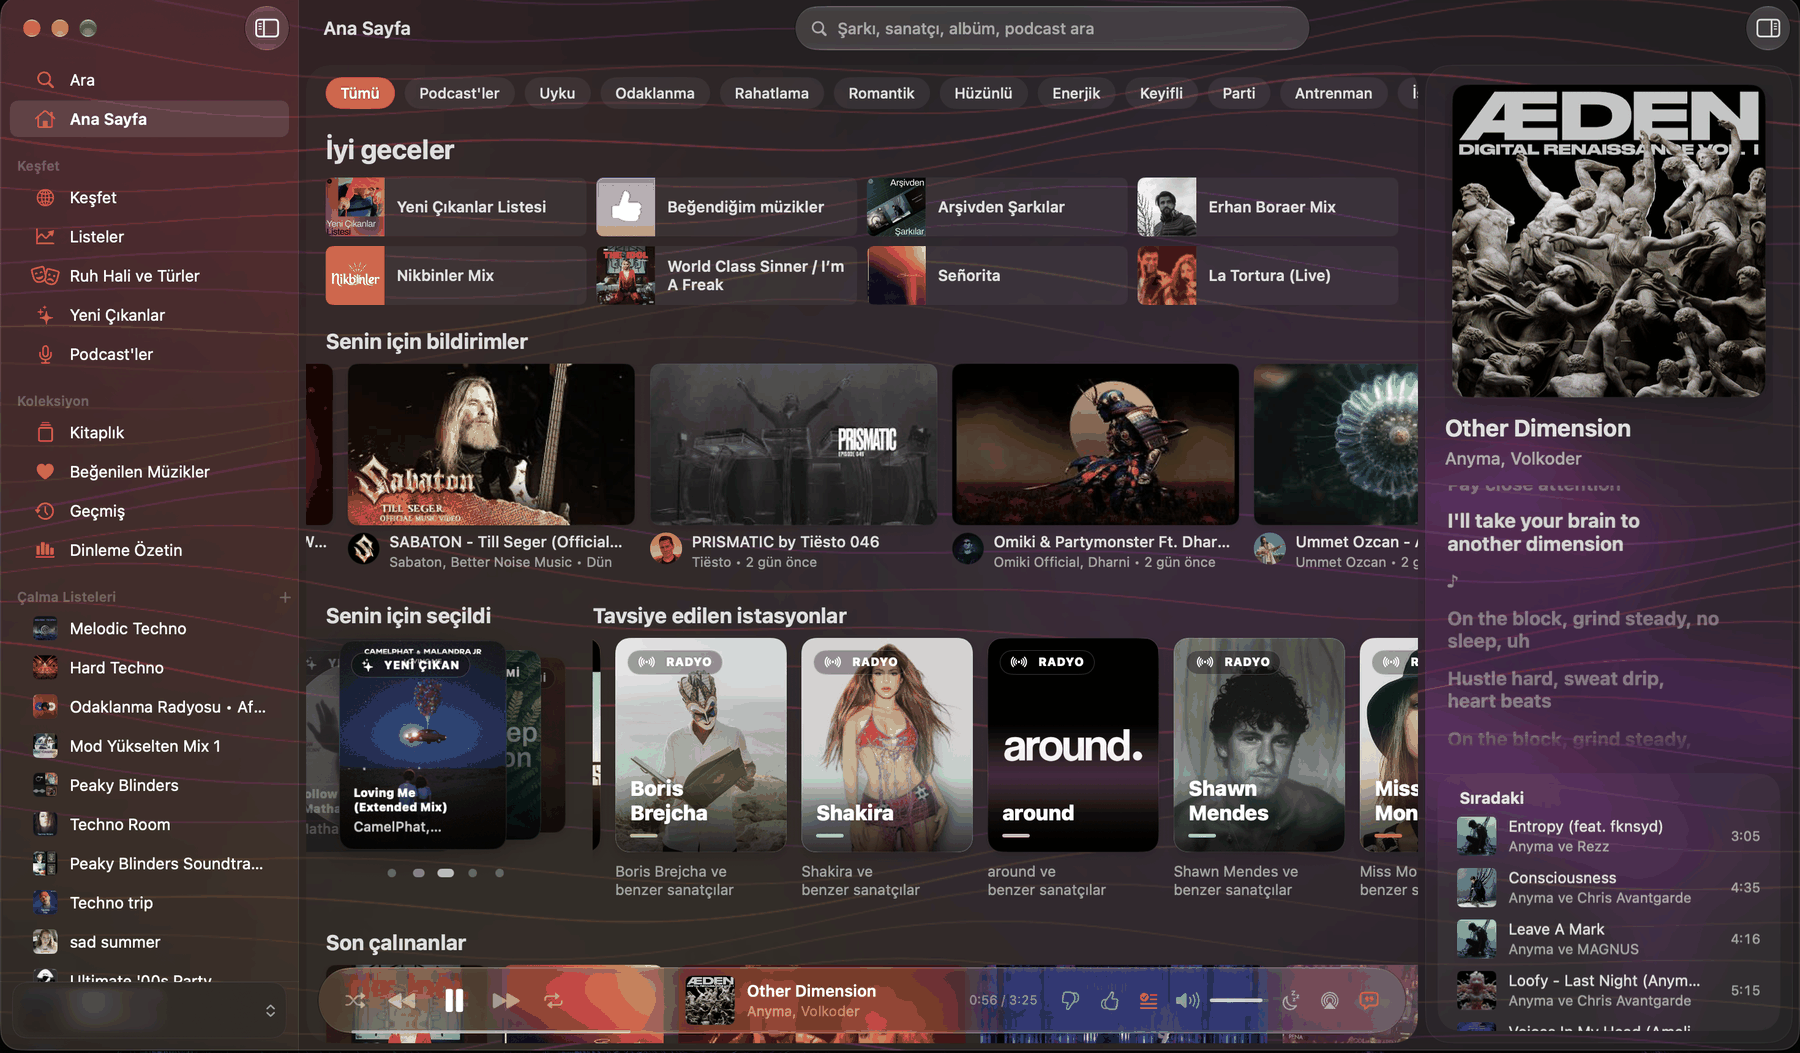
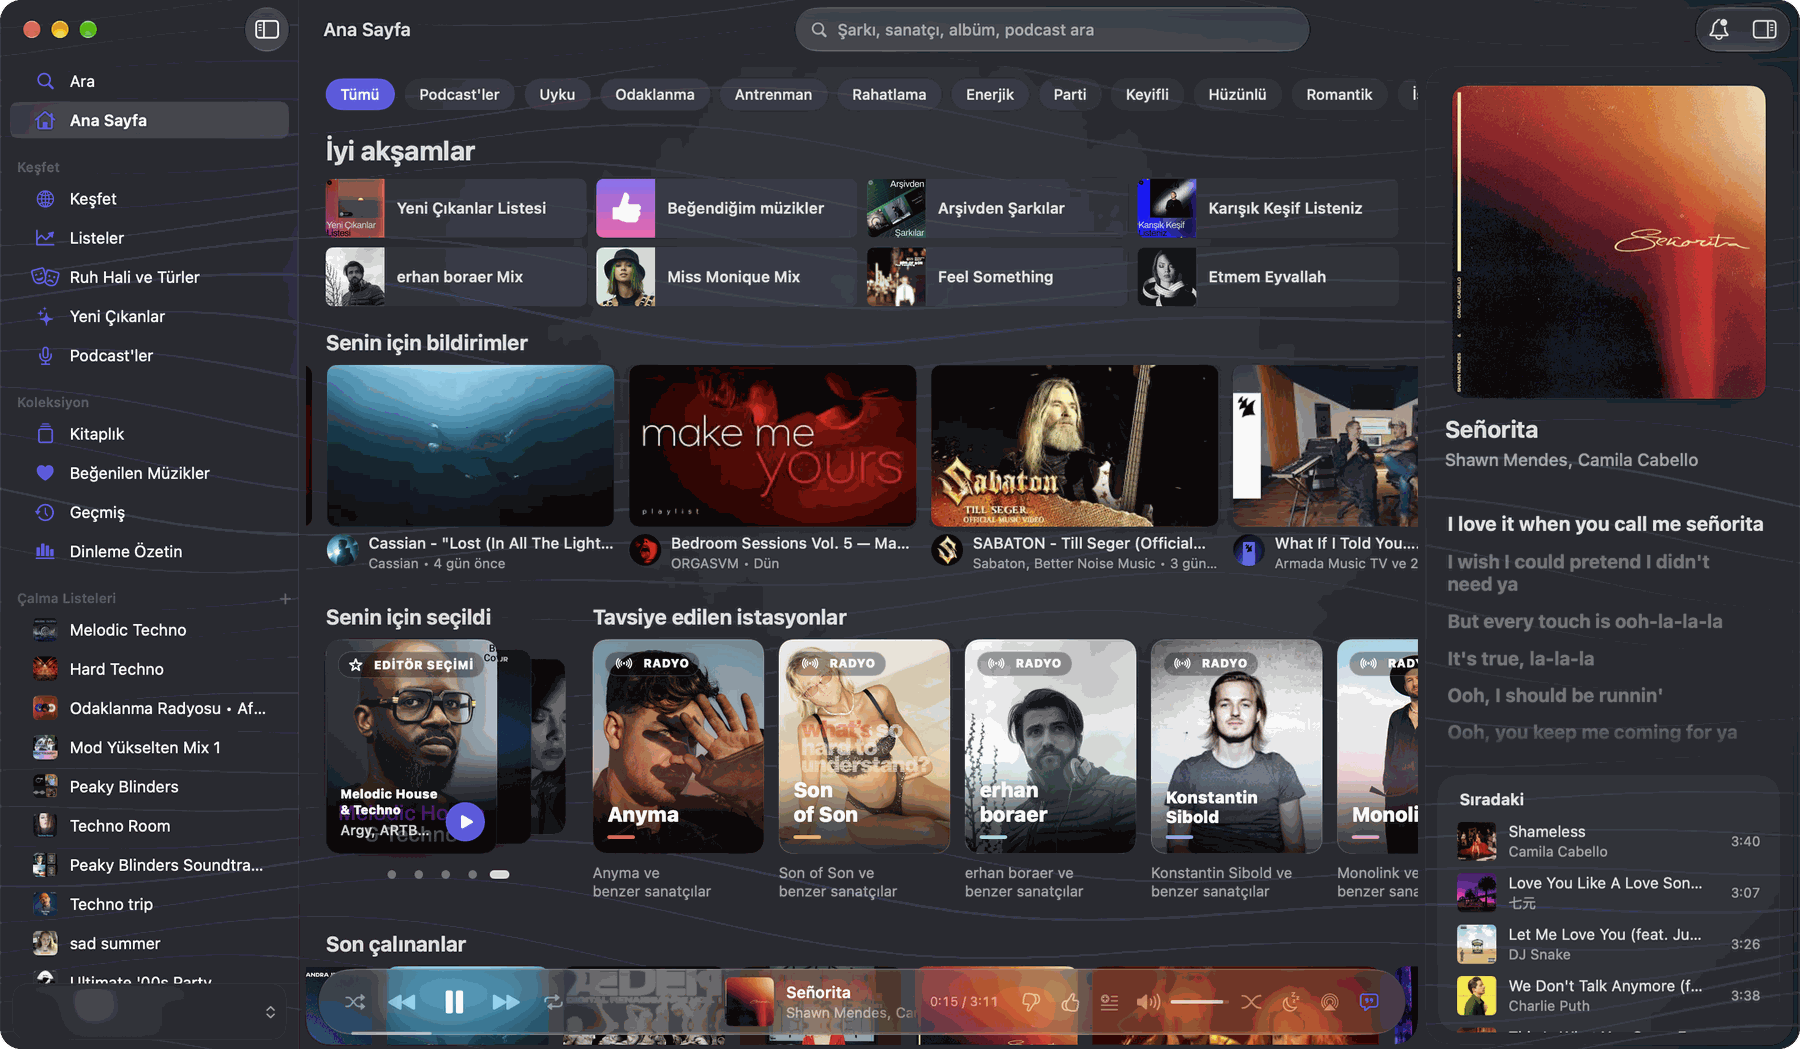
README: what makes the app its own, new screenshots

diff --git a/README.tr.md b/README.tr.md
@@ -5,7 +5,7 @@
 <h1 align="center">YT Music for macOS</h1>
 
 <p align="center">
-  Mac için SwiftUI ile yazılmış yerel bir YouTube Music istemcisi.
+  <b>YouTube Music'in Mac'e özel, yerel uygulaması — kendi ana sayfası, kendi oynatıcısı ve kendi tasarımıyla.</b>
 </p>
 
 <p align="center">
@@ -23,27 +23,85 @@
   <img src="docs/screenshots/home.png" alt="Ana sayfa">
 </p>
 
-> **Resmî değildir.** YouTube veya Google ile bağlantısı yoktur. “YouTube” ve “YouTube Music”, Google LLC'nin ticari markalarıdır. Kendi YouTube Music hesabınız gerekir; en iyi ses kalitesi için Premium gerekir.
+<p align="center">
+  <a href="#kurulum"><b>Kurulum</b></a> · <a href="#özellikler">Özellikler</a> · <a href="#gizlilik">Gizlilik</a> · <a href="CHANGELOG.md">Değişiklikler</a>
+</p>
 
-## Neler ekliyor
+YT Music, Mac için SwiftUI ile sıfırdan yazılmış bir YouTube Music istemcisi. Kendi hesabınla giriş yapar, kendi kitaplığını ve YouTube Music'in bütün kataloğunu dinlersin; ama karşına çıkan şey bir pencereye konmuş YouTube Music web sayfası değildir. Ana sayfada ne olacağına, bir radyonun sırada ne çalacağına, senin için neyin yeni olduğuna uygulama kendisi karar verir — bu Mac'te dinlediklerine göre — ve hepsini Apple'ın kendi ses oynatıcısıyla çalar.
 
-YouTube Music'in sunduklarına ek olarak uygulamanın kendine ait birkaç özelliği var:
+> **Resmî değildir.** YouTube veya Google ile bağlantısı yoktur. “YouTube” ve “YouTube Music”, Google LLC'nin ticari markalarıdır. Kendi YouTube Music hesabın gerekir; en iyi ses kalitesi için Premium gerekir.
 
-- **Ana sayfa:** kısayollar, sanatçı istasyonları, hızlı seçimler ve dinlediklerine göre değişen satırlar.
-- **Yeni çıkanlar:** takip ettiğin ve dinlediğin sanatçıların son yayınları.
-- **Bildirimler:** takip ettiğin müzik kanallarının son yüklemeleri, Shorts olmadan.
-- **Radyo düzenleme (isteğe bağlı):** resmî şarkı sürümlerini öne alır, her şarkıyı bir kez çalar; DJ setlerine dokunmaz.
-- **Mac'inde dinleme geçmişi:** yukarıdaki öneriler ve dinleme özetin (hafta, ay, yıl) için kullanılır; kapatabilir veya silebilirsin.
-- **Uzun setler:** dinlediğin türlerde, normal YouTube'dan DJ setleri ve canlı kayıtlar.
-- **Ses çıkışı:** yalnızca bu uygulama için hoparlör, Bluetooth, USB veya ekran çıkışı seç; ya da AirPlay kullan.
+## Onu farklı kılan
+
+<table>
+<tr>
+<td width="33%" valign="top">
+
+### Kendi algoritması
+
+Ana sayfa YouTube Music'in akışı değildir. Her açtığında Mac'inde yeniden kurulur: dinleme geçmişinden, takip ettiğin sanatçılardan, YouTube Music'in kataloğundan ve normal YouTube'dan. Sanatçı istasyonları, hızlı seçimler, en çok dinlediğin sanatçıların etrafında mix'ler, sevdiğin sanatçılara benzeyenler, dinlediğin türlerde uzun setler. Radyolar düzenlenir — önce resmî sürümler, her şarkı bir kez — yeni çıkanlar ve bildirimler yalnızca takip ettiğin sanatçı ve kanallardan gelir.
+
+</td>
+<td width="33%" valign="top">
+
+### Kendi tasarımı
+
+İlk satırından itibaren Mac için tasarlandı ve yazıldı: yavaşça akan bir ortam arka planı, sanatçıların kendi fotoğraflarıyla dikey istasyon kartları, kendiliğinden dönen bir öneri destesi, sanatçının portresiyle açılan sanatçı sayfaları, dinleme özetin ve şarkı sözleriyle sıra için bir yan panel. Hiçbir şey birden belirmez: görünümler solarak gelir, şarkılar yumuşakça açılıp kısılır. macOS 26'da Liquid Glass, açık ve koyu mod, seçilebilir vurgu renkleri.
+
+</td>
+<td width="33%" valign="top">
+
+### Kendi oynatıcısı
+
+İçinde tarayıcı da web oynatıcı da yok: YouTube'un gönderdiği akış, Apple'ın AVPlayer'ı ile olduğu gibi çalınır — Premium ile 256 kbps AAC. Şarkılar arasında eşit ses, şarkılar arası geçiş, uyku zamanlayıcı ve uygulamaya özel ses çıkışı (hoparlör, Bluetooth, USB, ekran ya da AirPlay). Arka planda çalarken yaklaşık %1,5 işlemci ve ~170 MB bellek.
+
+</td>
+</tr>
+</table>
+
+## Yakından
+
+<table>
+<tr>
+<td width="75%"><img src="docs/screenshots/artist.png" alt="Sanatçının kendi fotoğrafıyla sanatçı sayfası, yanında şarkı sözleri"></td>
+<td width="25%"><img src="docs/screenshots/notifications.png" alt="Takip ettiğin sanatçılardan yeni müzik"></td>
+</tr>
+<tr>
+<td align="center"><sub>Sanatçının kendi fotoğrafıyla sanatçı sayfaları · müziğin yanında zamanlı şarkı sözleri ve sıra</sub></td>
+<td align="center"><sub>Takip ettiğin sanatçı ve kanallardan yeni müzik</sub></td>
+</tr>
+</table>
+
+## Özellikler
+
+**Dinleme**
+- Şarkılar arasında eşit ses; her şarkının ses yüksekliği YouTube'un ölçümüne göre ayarlanır.
+- Çalar çubuğundaki düğmeden 3–12 saniyelik şarkılar arası geçiş; sırasıyla çalınan bir albümde ya da DJ setinde yapılmaz.
+- Çalma, duraklatma ve şarkı değiştirme yumuşakça açılıp kısılır; kendiliğinden biten şarkı sıradakine olduğu gibi geçer.
+- Uyku zamanlayıcı: 15 dakikadan 1,5 saate kadar ya da şarkı bitince, sesi kısarak.
+- Yan panelde zamanlı şarkı sözleri ve sıra; yalnızca bu uygulama için ses çıkışı.
+
+**Keşif**
+- Senin için kurulan bir ana sayfa: sanatçı istasyonları, hızlı seçimler, mix'ler, benzer sanatçılar ve uzun setler.
+- Takip ettiğin ve dinlediğin sanatçıların yeni çıkanları.
+- Takip ettiğin sanatçı ve kanallardan son müzikleri gösteren bir zil — single, albüm ve yüklemeler, Shorts olmadan.
+- Dinleme özetin: haftanın, ayın, yılın ya da tüm zamanların sanatçıları, kanalları ve şarkıları.
+
+**Kitaplığın**
+- Çalma listeleri, albümler, sanatçılar, beğendiklerin ve geçmişin; çalma listesi oluşturma, düzenleme ve sıralama.
+- Yazarken öneriler sunan arama.
+- Beğenmediğin içerik tek yerde, istediğin an geri alınabilir.
+
+**Mac'te**
+- Medya tuşları, Denetim Merkezi, Dock menüsü ve klavye kısayolları.
+- Türkçe ya da İngilizce; Mac'inin diline ya da senin seçimine göre.
+- Uygulama içinden güncelleme ve müzik çalarken çıkmadan önce bir soru.
 
 ## Yenilikler
 
-- **3.1 — Bildirimler ve şarkılar arası geçiş:** sağ üstte, takip ettiğin sanatçı ve kanalların yeni single, albüm ve yüklemelerini gösteren bir zil; çalar çubuğundan şarkılar arası yumuşak geçiş; çalma ve duraklatma yumuşakça açılıp kısılır; müzik çalarken çıkmadan önce sorar.
-- **3.0 — Eşit ses, uyku zamanlayıcı, dinleme özetin:** şarkılar arasında eşit ses, uyku zamanlayıcı, dinleme özetin, sanatçıların kendi fotoğraflarıyla yenilenen ana sayfa ve sanatçı sayfaları, açılabilen mix'ler ve geri alınabilen beğenilmeyen içerik.
-- **2.7 — Uygulama içinden güncelleme:** yeni sürüm kenar çubuğunda görünür; tek tıkla indirilip derlenir. Bkz. [Güncelleme](#güncelleme).
-- **2.6 — İngilizce arayüz:** uygulamanın tamamı Mac'inin diline (Türkçe veya İngilizce) ya da Ayarlar'da seçtiğine uyar.
-- **2.5 — Yeni “Yeni çıkanlar” sayfası:** takip ettiğin ve dinlediğin sanatçıların son yayınları; ortak yüklemelerde her kanal bir bağlantı.
+- **3.1 — Bildirimler ve şarkılar arası geçiş:** takip ettiğin sanatçı ve kanalların yeni single, albüm ve yüklemelerini gösteren bir zil; çalar çubuğundan şarkılar arası geçiş; çalma ve duraklatma yumuşakça açılıp kısılır. 3.1.1, YouTube'un yeni oynatıcısıyla şarkıların çalmaya devam etmesini sağlar.
+- **3.0 — Eşit ses, uyku zamanlayıcı, dinleme özetin:** dinleme özetin, sanatçıların kendi fotoğraflarıyla yenilenen ana sayfa ve sanatçı sayfaları, açılabilen mix'ler ve geri alınabilen beğenilmeyen içerik.
+- **2.7 — Uygulama içinden güncelleme:** yeni sürüm kenar çubuğunda görünür; tek tıkla indirilip derlenir.
 
 Tam liste [değişiklik günlüğünde](CHANGELOG.md).
 
@@ -67,13 +125,6 @@ Uygulama açılışta ve günde bir kez GitHub'da yeni sürüm olup olmadığın
 Elle güncellemek için proje klasöründe: `git pull && ./build.sh --install`. Her sürümde e-posta almak için bu sayfada **Watch → Custom → Releases**'ı seç.
 
 **2.6 veya öncesinden geliyorsan:** bir kez elle güncelle; 2.7'den sonra uygulama kendisi yapar.
-
-## Neden yerel bir uygulama
-
-- **İçinde tarayıcı yok.** SwiftUI arayüzü ve Apple'ın kendi ses oynatıcısı. Electron yok, web oynatıcı yok.
-- **Tam kalite.** Premium ile 256 kbps AAC, olduğu gibi çalınır.
-- **Hafif.** Arka planda çalarken yaklaşık %1,5 CPU ve ~170 MB bellek (geliştiricinin MacBook'unda ölçüldü).
-- **macOS'a uyumlu.** macOS 26'da Liquid Glass, medya tuşları, Denetim Merkezi, Dock menüsü, açık ve koyu mod.
 
 ## Klavye kısayolları
 
@@ -136,7 +187,7 @@ Türkçe de İngilizce de olur. Hesap adını, çerezleri veya token'ları asla 
 
 - [yt-dlp-ejs](https://github.com/yt-dlp/ejs) (kamu malı), [meriyah](https://github.com/meriyah/meriyah) (ISC) ve [astring](https://github.com/davidbonnet/astring) (MIT) ile.
 - Eşzamanlı şarkı sözleri için [LRCLIB](https://lrclib.net).
-- Tasarım Apple Music, Spotify ve [Kaset](https://github.com/sozercan/kaset)'ten esinlendi.
+- [Kaset](https://github.com/sozercan/kaset), Mac için yerel bir YouTube Music istemcisinin neye benzeyebileceğini erkenden gösterdiği için.
 
 ## Lisans
 

diff --git a/README.md b/README.md
@@ -5,7 +5,7 @@
 <h1 align="center">YT Music for macOS</h1>
 
 <p align="center">
-  A native YouTube Music client for the Mac, built with SwiftUI.
+  <b>Your YouTube Music as a native Mac app — with its own home page, its own player and its own design.</b>
 </p>
 
 <p align="center">
@@ -23,27 +23,85 @@
   <img src="docs/screenshots/home.png" alt="The home page">
 </p>
 
+<p align="center">
+  <a href="#install"><b>Install</b></a> · <a href="#features">Features</a> · <a href="#privacy">Privacy</a> · <a href="CHANGELOG.md">Changelog</a>
+</p>
+
+YT Music is a YouTube Music client for the Mac, written from scratch in SwiftUI. You sign in with your own account and play your own library and YouTube Music's whole catalogue — but what you see is not YouTube Music's web page in a window. The app decides for itself what goes on the home page, what a radio plays next and what is new for you, from what you listen to on this Mac, and plays it with Apple's own audio player.
+
 > **Unofficial.** Not affiliated with YouTube or Google. “YouTube” and “YouTube Music” are trademarks of Google LLC. You need your own YouTube Music account; Premium unlocks the best audio quality.
 
-## What it adds
+## What makes it different
 
-On top of what YouTube Music offers, the app has a few things of its own:
+<table>
+<tr>
+<td width="33%" valign="top">
 
-- **Home page:** shortcuts, artist stations, quick picks and rows that follow what you listen to.
-- **New releases:** the latest releases of the artists you follow and of the artists you listen to.
-- **Notifications:** recent uploads from the music channels you follow, without Shorts.
-- **Radio cleanup (optional):** prefers official song versions and plays each song once; DJ sets are left as they are.
-- **Listening history on your Mac:** used for the recommendations above and for a summary of your listening (week, month, year); you can turn it off or erase it.
-- **Long sets:** DJ sets and live recordings from regular YouTube, in the genres you listen to.
-- **Sound output:** pick a speaker, Bluetooth, USB or display output for this app only, or use AirPlay.
+### Its own algorithm
+
+The home page isn't YouTube Music's feed. It is put together on your Mac each time you open it, from your listening history, the artists you follow, YouTube Music's catalogue and regular YouTube: artist stations, quick picks, mixes around the artists you play most, artists like the ones you love, long sets in the genres you listen to. Radios are tidied up — official versions first, each song once — and new releases and notifications come only from the artists and channels you follow.
+
+</td>
+<td width="33%" valign="top">
+
+### Its own design
+
+Designed and built for the Mac from the first line: a slowly moving ambient background, tall station cards with the artists' own photos, a deck of picks that turns by itself, artist pages with the artist's portrait, a summary of your listening and a side panel for lyrics and the queue. Nothing jumps: views fade in, and songs ease in and out. Liquid Glass on macOS 26, light and dark mode, a choice of accent colours.
+
+</td>
+<td width="33%" valign="top">
+
+### Its own player
+
+No browser and no web player inside: the stream YouTube serves is played as it is by Apple's AVPlayer — 256 kbps AAC with Premium. Even volume between songs, crossfade, a sleep timer, and a sound output of its own (a speaker, Bluetooth, USB, a display, or AirPlay). About 1.5 % CPU and ~170 MB of memory while playing in the background.
+
+</td>
+</tr>
+</table>
+
+## A closer look
+
+<table>
+<tr>
+<td width="75%"><img src="docs/screenshots/artist.png" alt="An artist page with the artist's own photo, lyrics beside it"></td>
+<td width="25%"><img src="docs/screenshots/notifications.png" alt="New music from the artists you follow"></td>
+</tr>
+<tr>
+<td align="center"><sub>Artist pages with the artist's own photo · time-synced lyrics and the queue beside the music</sub></td>
+<td align="center"><sub>New music from the artists and channels you follow</sub></td>
+</tr>
+</table>
+
+## Features
+
+**Listening**
+- Even volume between songs, measured by YouTube for every song.
+- Crossfade of 3 to 12 seconds, from a button in the player bar; never within an album played in order or a DJ set.
+- Playing, pausing and changing songs ease in and out; a song that simply ends hands over to the next as it is.
+- Sleep timer: after 15 minutes to 1.5 hours, or at the end of the song, fading out.
+- Time-synced lyrics and the queue in a side panel, and a sound output for this app only.
+
+**Discovery**
+- A home page built for you, with artist stations, quick picks, mixes, similar artists and long sets.
+- New releases from the artists you follow and the ones you listen to.
+- A bell with the latest music from the artists and channels you follow — singles, albums and uploads, no Shorts.
+- Your listening: your top artists, channels and songs of the week, month, year or all time.
+
+**Your library**
+- Playlists, albums, artists, liked music and history; create, edit and reorder playlists.
+- Search with suggestions as you type.
+- Disliked content in one place, ready to bring back.
+
+**On the Mac**
+- Media keys, Control Center, the Dock menu and keyboard shortcuts.
+- English or Turkish, following your Mac or your choice.
+- Updates from inside the app, and a question before quitting while music plays.
 
 ## What's new
 
-- **3.1 — Notifications and crossfade:** a bell at the top right with the new singles, albums and uploads of the artists and channels you follow; crossfade between songs from the player bar; playing and pausing ease in and out; a question before quitting while music plays.
-- **3.0 — Even volume, sleep timer, your listening:** even volume between songs, a sleep timer, a summary of your listening, a redesigned home page and artist pages with the artists' own photos, mixes you can open, and disliked content you can bring back.
-- **2.7 — Updates from inside the app:** a new version shows up in the sidebar; one click pulls and builds it. See [Updating](#updating).
-- **2.6 — English interface:** the whole app follows your Mac's language (English or Turkish), or the one you pick in Settings.
-- **2.5 — A new “New releases” page:** the latest releases of the artists you follow and listen to; every channel of a joint upload is a link.
+- **3.1 — Notifications and crossfade:** a bell with the new singles, albums and uploads of the artists and channels you follow; crossfade from the player bar; playing and pausing ease in and out. 3.1.1 keeps songs playing with YouTube's new player.
+- **3.0 — Even volume, sleep timer, your listening:** a summary of your listening, a redesigned home page and artist pages with the artists' own photos, mixes you can open, and disliked content you can bring back.
+- **2.7 — Updates from inside the app:** a new version shows up in the sidebar; one click pulls and builds it.
 
 The full list is in the [changelog](CHANGELOG.md).
 
@@ -67,13 +125,6 @@ The app checks GitHub for a new version at launch and once a day. When one is ou
 By hand, in the project folder: `git pull && ./build.sh --install`. To get an e-mail for each version, use **Watch → Custom → Releases** on this page.
 
 **Coming from 2.6 or earlier:** update by hand once; from 2.7 on the app does it.
-
-## Why a native app
-
-- **No browser inside.** SwiftUI interface and Apple's own audio player. No Electron, no web player.
-- **Full quality.** With Premium, 256 kbps AAC, played as it is.
-- **Light.** About 1.5 % CPU and ~170 MB of memory while playing in the background (measured on the author's MacBook).
-- **At home on macOS.** Liquid Glass on macOS 26, media keys, Control Center, Dock menu, light and dark mode.
 
 ## Keyboard shortcuts
 
@@ -136,7 +187,7 @@ Turkish and English are both welcome. Never post your account name, cookies or t
 
 - [yt-dlp-ejs](https://github.com/yt-dlp/ejs) (public domain), with [meriyah](https://github.com/meriyah/meriyah) (ISC) and [astring](https://github.com/davidbonnet/astring) (MIT).
 - [LRCLIB](https://lrclib.net) for time-synced lyrics.
-- Design inspired by Apple Music, Spotify and [Kaset](https://github.com/sozercan/kaset).
+- [Kaset](https://github.com/sozercan/kaset), for showing early on what a native YouTube Music client on the Mac could be.
 
 ## License
 
